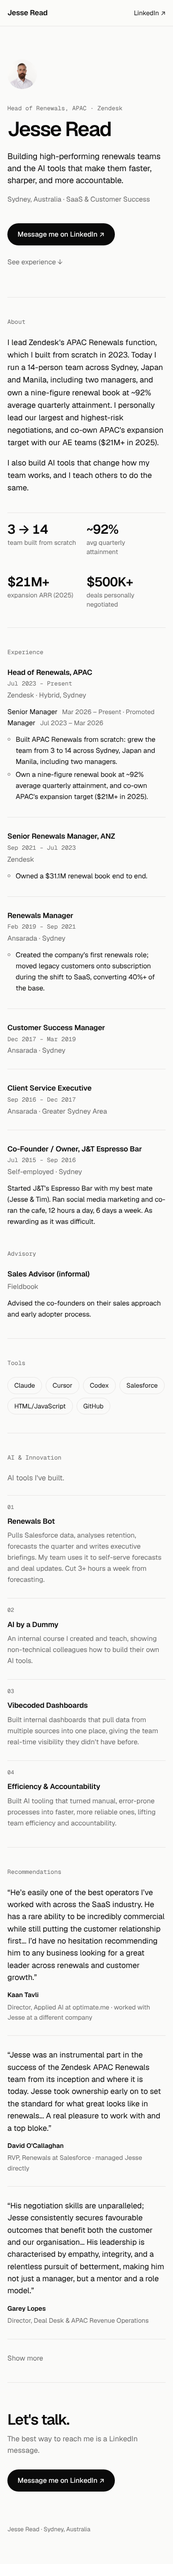
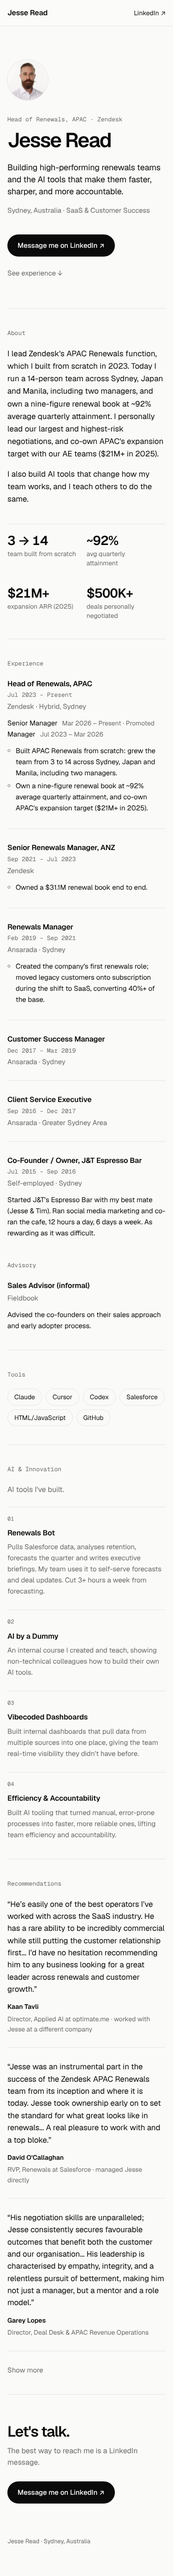
Use high-quality headshot and add 1200x630 link-preview image
Claude-Session: https://claude.ai/code/session_019fWaCdLMJV6xEiPfesMLR2

diff --git a/index.html b/index.html
@@ -12,16 +12,16 @@
 <meta property="og:url" content="https://saasrenewals.com/">
 <meta property="og:title" content="Jesse Read | Head of Renewals, APAC · Zendesk">
 <meta property="og:description" content="Built Zendesk's APAC Renewals function from scratch: 14 people, a nine-figure book, ~92% avg quarterly attainment. I also build AI tools for renewals teams.">
-<meta property="og:image" content="https://saasrenewals.com/photo.jpg">
-<meta property="og:image:width" content="400">
-<meta property="og:image:height" content="400">
+<meta property="og:image" content="https://saasrenewals.com/og-image.jpg">
+<meta property="og:image:width" content="1200">
+<meta property="og:image:height" content="630">
 <meta property="og:image:alt" content="Portrait of Jesse Read">
 <meta property="og:locale" content="en_AU">
 
-<meta name="twitter:card" content="summary">
+<meta name="twitter:card" content="summary_large_image">
 <meta name="twitter:title" content="Jesse Read | Head of Renewals, APAC · Zendesk">
 <meta name="twitter:description" content="Built Zendesk's APAC Renewals function from scratch: 14 people, a nine-figure book, ~92% avg quarterly attainment. I also build AI tools for renewals teams.">
-<meta name="twitter:image" content="https://saasrenewals.com/photo.jpg">
+<meta name="twitter:image" content="https://saasrenewals.com/og-image.jpg">
 <meta name="twitter:image:alt" content="Portrait of Jesse Read">
 
 <link rel="preconnect" href="https://fonts.googleapis.com">
@@ -47,7 +47,7 @@
 </nav>
 
 <header id="top" class="wrap hero">
-  <img class="hero-photo" src="photo.jpg" alt="Portrait of Jesse Read" width="400" height="400">
+  <img class="hero-photo" src="photo.jpg" alt="Portrait of Jesse Read" width="800" height="800">
   <p class="eyebrow">Head of Renewals, APAC · Zendesk</p>
   <h1>Jesse Read</h1>
   <p class="hero-tagline">Building high-performing renewals teams and the AI tools that make them faster, sharper, and more accountable.</p>

diff --git a/style.css b/style.css
@@ -112,12 +112,17 @@ a { color: inherit; }
 .hero { padding-top: 112px; padding-bottom: 96px; }
 
 .hero-photo {
-  width: 64px;
-  height: 64px;
+  width: 88px;
+  height: 88px;
   border-radius: 50%;
   object-fit: cover;
   display: block;
   margin-bottom: 32px;
+  box-shadow: 0 0 0 1px var(--line);
+}
+
+@media (prefers-color-scheme: dark) {
+  .hero-photo { filter: brightness(0.9); }
 }
 
 .eyebrow {
